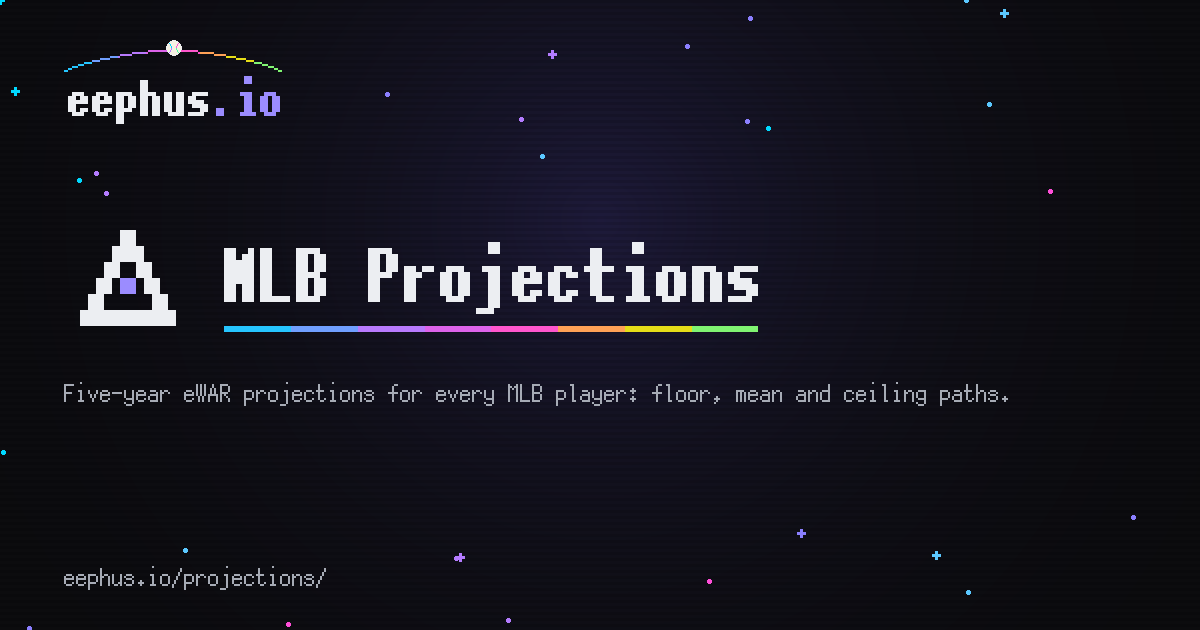
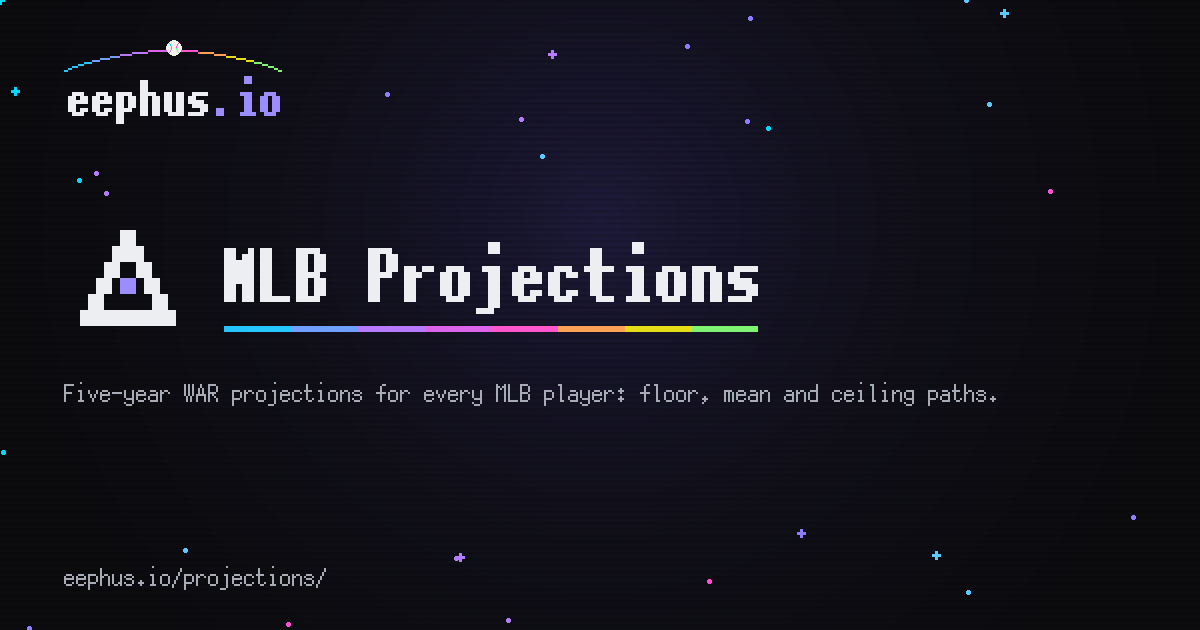
The fWAR label epoch's second step X follow-up cuts the /projections/ share card line from its page's new meta description ("Five-year WAR projections ..."), and regenerates that one card image.
Found by step Y (test_share_cards::test_each_card_line_is_cut_from_its_pages_meta_description:
('projections', ['ewar'])): the card line in tools/pixel_brand_src.py still said "eWAR" after
the step X description named the projections' fWAR basis. python tools/pixel_brand.py --check
reproduced 82 of 82 outputs before the edit; after it, python tools/pixel_brand.py rewrote one
file, assets/og/projections.png. test_share_cards 66 passed.

Changed region(s): [[0.1542, 0.6032, 0.8325, 0.6635]]

diff --git a/prospect-tracker/tools/pixel_brand_src.py b/prospect-tracker/tools/pixel_brand_src.py
@@ -159,7 +159,7 @@ MODULES = (
     ("fa", "MLB Free Agency", "/fa/",
      "The free-agent class: projected contracts with floor, mean and ceiling bands."),
     ("projections", "MLB Projections", "/projections/",
-     "Five-year eWAR projections for every MLB player: floor, mean and ceiling paths."),
+     "Five-year WAR projections for every MLB player: floor, mean and ceiling paths."),
     ("mlbstats", "MLB Stats", "/mlbstats/",
      "MLB leaderboards: every player by eWAR, HEM+, SEM+, REM+, RIV+ and DEM+."),
     ("pal", "Alchemy Lab", "/pal/",
